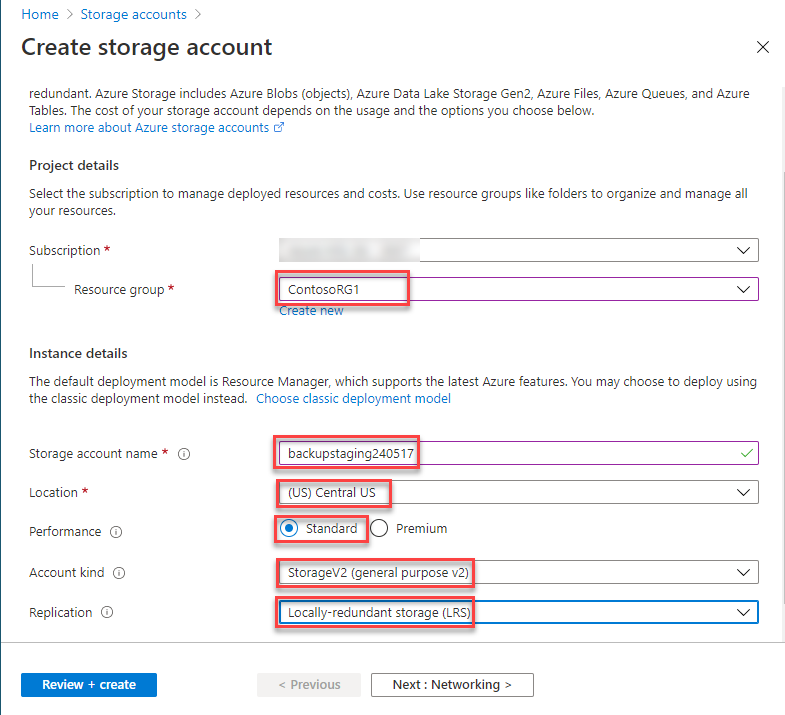
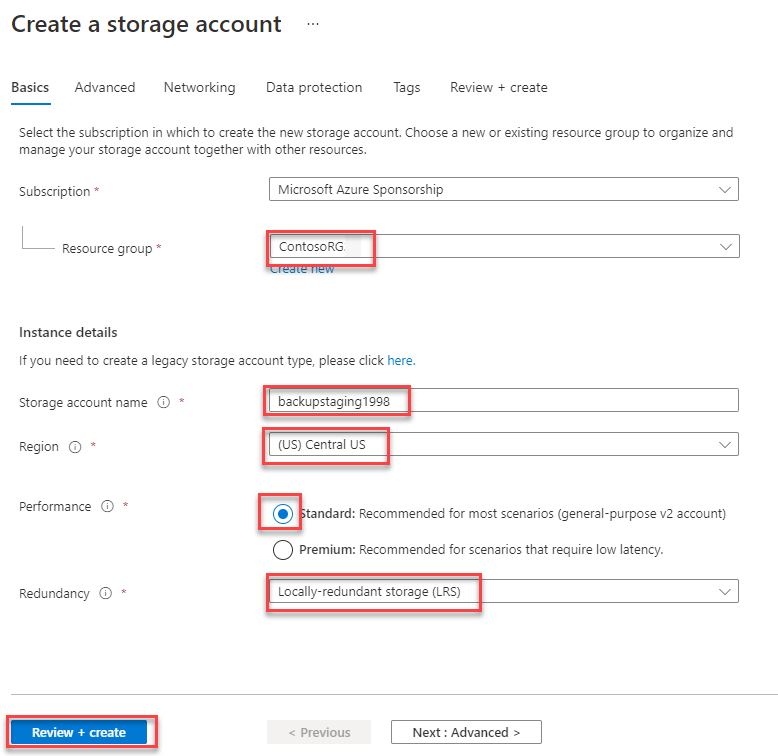
Updated MCW

diff --git a/Hands-on lab/HOL step-by step - Building a resilient IaaS architecture.md b/Hands-on lab/HOL step-by step - Building a resilient IaaS architecture.md
@@ -1379,7 +1379,7 @@ In this task, you will validate the backup for the Contoso application WebVMs. Y
 
     ![Browser screenshot showing the Contoso application with missing images highlighted.](images/v-bk-web2.png "Contoso application with missing images")
 
-5.  To restore WebVM1 from backup, Azure Backup requires that a 'staging' storage account be available. To create this account, in the Azure portal select **+ Create a resource**, then **Storage**, and then **Storage account - blob, file, table, queue**.
+5.  To restore WebVM1 from backup, Azure Backup requires that a 'staging' storage account be available. To create this account, in the Azure portal select **+ Create a resource**, then search for and select **Storage account**. Select **Create**.
 
 6.  Complete the 'Create storage account' form as follows, then select **Review + Create** followed by **Create**.
 
@@ -1387,9 +1387,7 @@ In this task, you will validate the backup for the Contoso application WebVMs. Y
     -   **Storage account name:** Unique name starting with `backupstaging`.
     -   **Location:** Central US *(this is your primary region)*
     -   **Performance:** Standard
-    -   **Account kind:** StorageV2 (general purpose v2)
     -   **Replication:** Locally-redundant storage (LRS)
-    -   **Access tier:** Hot
 
     ![Screenshot showing the 'Create storage account' blade in the Azure portal.](images/v-bk-web3.png "Create storage account")
 
